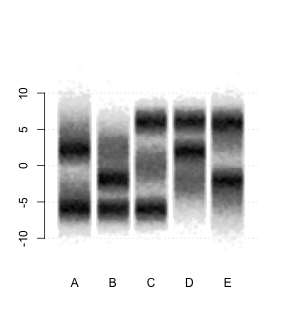
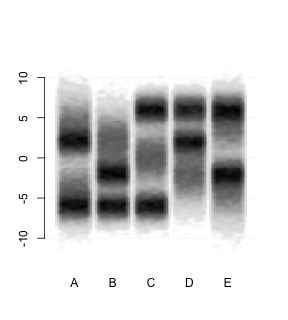
Version 0.5.11

diff --git a/README.md b/README.md
@@ -40,9 +40,9 @@ which was randomly generated using mixtures of normal distributions.
 
 ```r
 # Examples using the default color mapping function
-r <- SideBySideDensity(x, nx = 200)                 # Example 1
-r <- SideBySideDensity(x, nx = 200, smoothx = 25)   # Example 2
-r <- SideBySideDensity(x, nx = 200, method = "ash") # Example 3
+r <- SideBySideDensity(x)                 # Example 1
+r <- SideBySideDensity(x, smoothx = 10)   # Example 2
+r <- SideBySideDensity(x, method = "ash") # Example 3
 ```
 
 ![](./images/gallery/barbouille_01.png "example")
@@ -51,9 +51,9 @@ r <- SideBySideDensity(x, nx = 200, method = "ash") # Example 3
 
 ```r
 # Examples using a custom color mapping function (cmf)
-r <- SideBySideDensity(x, nx = 200, mapper = cmf, smoothx = 5)                     # Example 1
-r <- SideBySideDensity(x, nx = 200, mapper = cmf, jitter = "norm")                 # Example 2
-r <- SideBySideDensity(x, nx = 200, mapper = cmf, jitter = "norm", method = "ash") # Example 3
+r <- SideBySideDensity(x, mapper = cmf, smoothx = 5)                     # Example 1
+r <- SideBySideDensity(x, mapper = cmf, jitter = "norm")                 # Example 2
+r <- SideBySideDensity(x, mapper = cmf, jitter = "norm", method = "ash") # Example 3
 ```
 
 ![](./images/gallery/barbouille_04.png "example")
